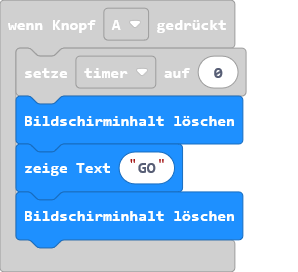
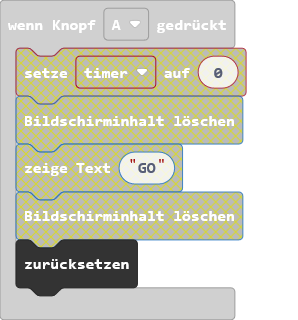
Aktualisiere main.blocks, main.ts

diff --git a/main.ts b/main.ts
@@ -1,8 +1,5 @@
 input.onButtonPressed(Button.A, function () {
-    timer = 0
-    basic.clearScreen()
-    basic.showString("GO")
-    basic.clearScreen()
+    control.reset()
 })
 input.onButtonPressed(Button.B, function () {
     pause2 = timer
